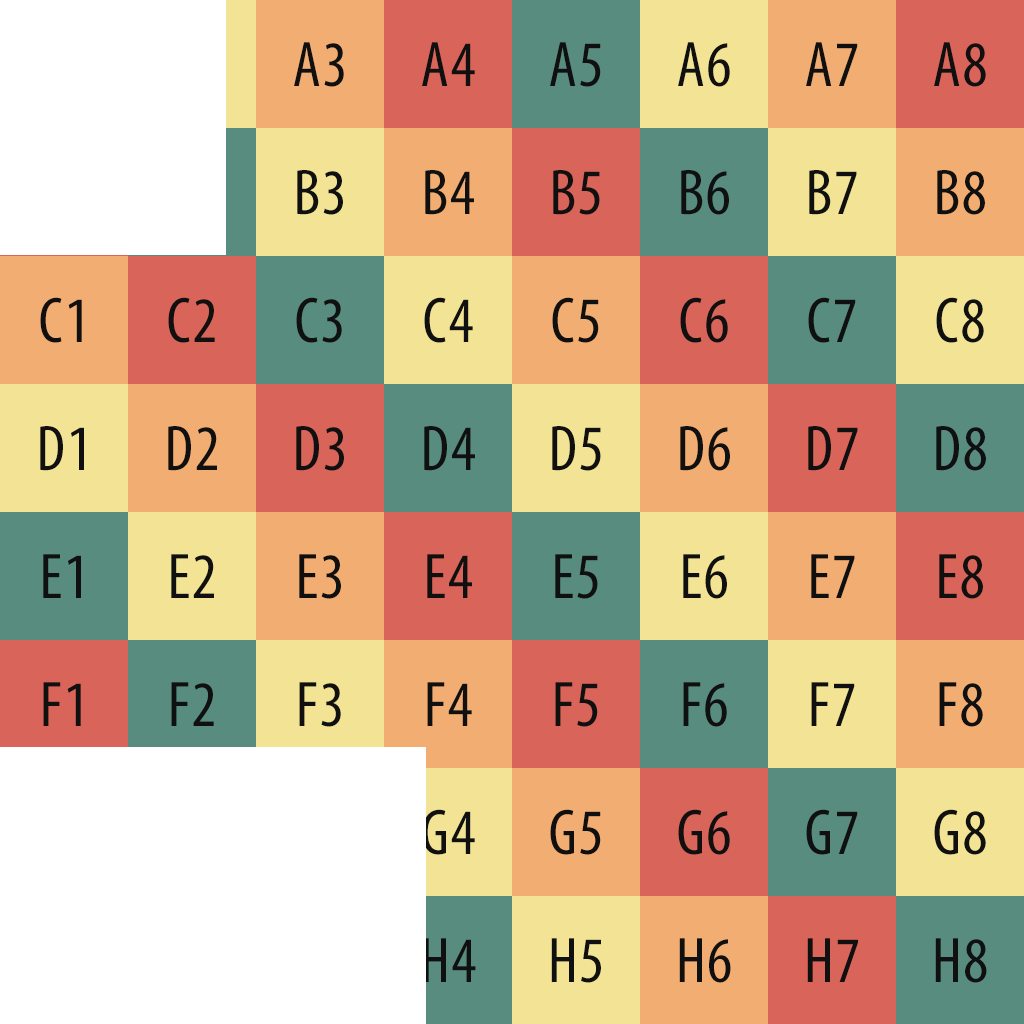
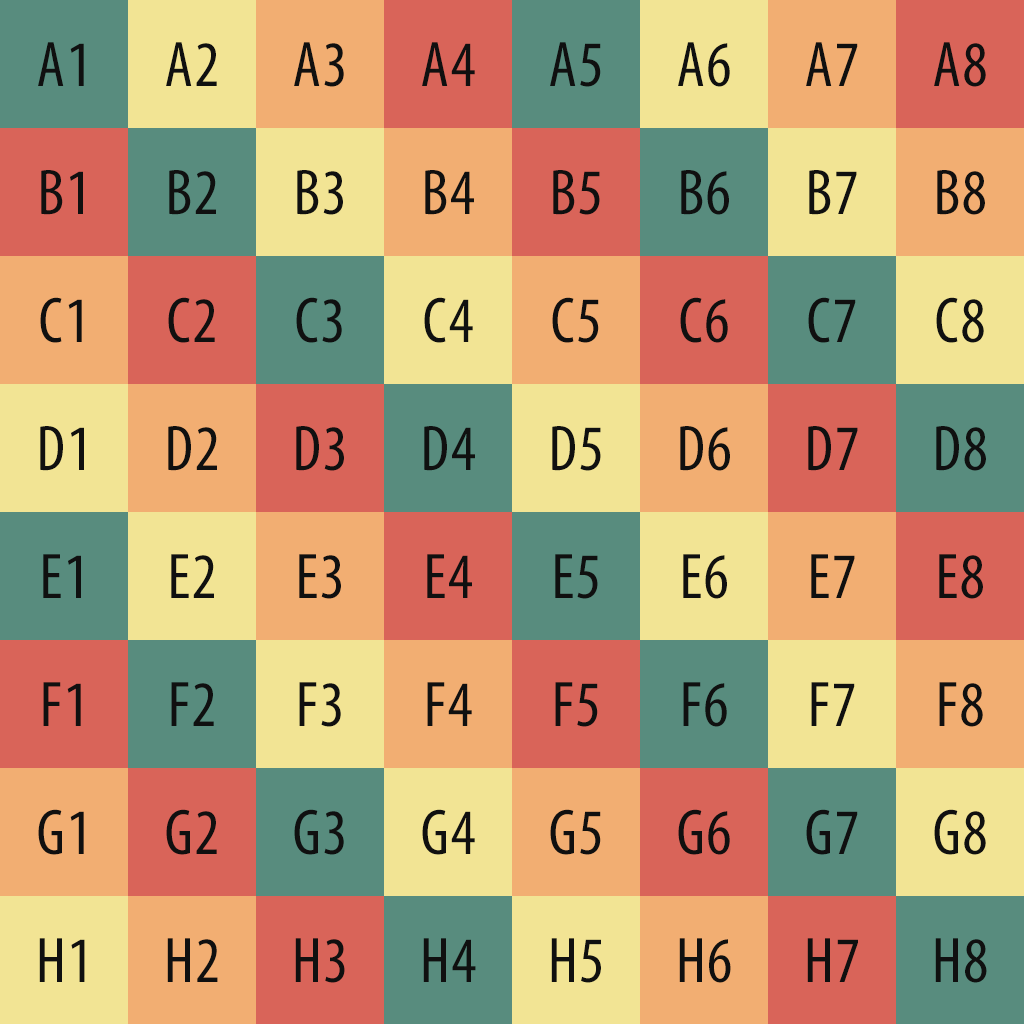
Get ground textures working, but not yet abstracted to the shape class.

Changed region(s): [[0.0, 0.7188, 0.4375, 1.0], [0.0, 0.0, 0.2188, 0.25]]

diff --git a/src/glwidget.cpp b/src/glwidget.cpp
@@ -70,12 +70,87 @@ void GLWidget::initializeGL()
     glEnable(GL_DEPTH_TEST);
     glEnable(GL_CULL_FACE);
     glCullFace(GL_BACK);
-   // glShadeModel(GL_SMOOTH);
+//    glShadeModel(GL_SMOOTH);
 
 
     // Initialize shaders
     m_defaultShader = new Shader(":resources/shaders/shader.vert",      ":resources/shaders/shader.frag");
     m_pointShader   = new Shader(":resources/shaders/anchorPoint.vert", ":resources/shaders/anchorPoint.geom", ":resources/shaders/anchorPoint.frag");
+//    m_texture_shader = new Shader(":/resources/shaders/texture.vert", ":/resources/shaders/texture.frag");
+
+    // INITIALIZE TEXTURE STUFF
+
+    // Prepare filepath
+    QString kitten_filepath = QString(":/resources/images/kitten.png");
+
+    // TASK 1: Obtain image from filepath
+    m_image = QImage(kitten_filepath);
+
+    // TASK 2: Format image to fit OpenGL
+    m_image = m_image.convertToFormat(QImage::Format_RGBA8888).mirrored();
+
+    auto bits = m_image.bits();
+
+    // TASK 3: Generate kitten texture
+    glGenTextures(1, &m_kitten_texture);
+
+    // TASK 9: Set the active texture slot to texture slot 0
+    glActiveTexture(GL_TEXTURE0);
+
+    // TASK 4: Bind kitten texture
+    glBindTexture(GL_TEXTURE_2D, m_kitten_texture);
+
+    // TASK 5: Load image into kitten texture
+    glTexImage2D(GL_TEXTURE_2D, 0, GL_RGBA, m_image.width(), m_image.height(), 0, GL_RGBA, GL_UNSIGNED_BYTE, m_image.bits());
+
+    // TASK 6: Set min and mag filters' interpolation mode to linear
+    glTexParameteri(GL_TEXTURE_2D, GL_TEXTURE_MIN_FILTER, GL_LINEAR);
+    glTexParameteri(GL_TEXTURE_2D, GL_TEXTURE_MAG_FILTER, GL_LINEAR);
+
+    // TASK 7: Unbind kitten texture
+    glBindTexture(GL_TEXTURE_2D, 0);
+
+//    // TASK 10: set the texture.frag uniform for our texture
+//    glUseProgram(m_texture_shader->id());
+//    glUniform1i(glGetUniformLocation(m_texture_shader->id(), "sampler"), 0);
+//    glUseProgram(0);
+
+    glUseProgram(m_defaultShader->id());
+    glUniform1i(glGetUniformLocation(m_defaultShader->id(), "sampler"), 0);
+    glUseProgram(0);
+
+//    // TASK 11: Fix this "fullscreen" quad's vertex data
+//    // TASK 12: Play around with different values!
+//    // TASK 13: Add UV coordinates
+//    std::vector<GLfloat> fullscreen_quad_data =
+//    { //     POSITIONS    //    UVs    //
+//        -1.0f,  1.0f, 0.0f, 0.0f, 1.0f,
+//        -1.0f, -1.0f, 0.0f, 0.0f, 0.0f,
+//         1.0f, -1.0f, 0.0f, 1.0f, 0.0f,
+//         1.0f,  1.0f, 0.0f, 1.0f, 1.0f,
+//        -1.0f,  1.0f, 0.0f, 0.0f, 1.0f,
+//         1.0f, -1.0f, 0.0f, 1.0f, 0.0f
+//    };
+
+//    // Generate and bind a VBO and a VAO for a fullscreen quad
+//    glGenBuffers(1, &m_fullscreen_vbo);
+//    glBindBuffer(GL_ARRAY_BUFFER, m_fullscreen_vbo);
+//    glBufferData(GL_ARRAY_BUFFER, fullscreen_quad_data.size()*sizeof(GLfloat), fullscreen_quad_data.data(), GL_STATIC_DRAW);
+//    glGenVertexArrays(1, &m_fullscreen_vao);
+//    glBindVertexArray(m_fullscreen_vao);
+
+//    // TASK 14: modify the code below to add a second attribute to the vertex attribute array
+//    glEnableVertexAttribArray(0);
+//    glEnableVertexAttribArray(1);
+//    glVertexAttribPointer(0, 3, GL_FLOAT, GL_FALSE, 5 * sizeof(GLfloat), nullptr);
+//    glVertexAttribPointer(1, 2, GL_FLOAT, GL_FALSE, 5 * sizeof(GLfloat), reinterpret_cast<void *>(3 * sizeof(GLfloat)));
+
+//    // Unbind the fullscreen quad's VBO and VAO
+//    glBindBuffer(GL_ARRAY_BUFFER, 0);
+//    glBindVertexArray(0);
+
+    // END INITIALIZE TEXTURE STUFF
+
 
     // Initialize ARAP, and get parameters needed to decide the camera position, etc
     Vector3f coeffMin, coeffMax;
@@ -111,11 +186,30 @@ void GLWidget::initializeGL()
     m_arap.initGroundPlane(":resources/images/kitty.png", 2, m_defaultShader);
 }
 
+//void GLWidget::paintTexture(GLuint texture, bool filtered){
+////    glUseProgram(m_texture_shader->id());
+//    m_texture_shader->bind();
+//    // TASK 32: Set your bool uniform on whether or not to filter the texture drawn
+////    glUniform1i(glGetUniformLocation(m_texture_shader->id(), "filtered"), filtered);
+//    m_texture_shader->setUniform("filtered", filtered);
+//    // TASK 10: Bind "texture" to slot 0
+//    glActiveTexture(GL_TEXTURE0);
+//    glBindTexture(GL_TEXTURE_2D, texture);
+//    glBindVertexArray(m_fullscreen_vao);
+////    std::cout << texture << std::endl;
+//    glDrawArrays(GL_TRIANGLES, 0, 6);
+//    glBindTexture(GL_TEXTURE_2D, 0);
+//    glBindVertexArray(0);
+//    glUseProgram(0);
+//    m_texture_shader->unbind();
+//}
+
 void GLWidget::paintGL()
 {
-    glClear(GL_COLOR_BUFFER_BIT | GL_DEPTH_BUFFER_BIT);
-    glBlendFunc(GL_SRC_ALPHA, GL_ONE_MINUS_SRC_ALPHA);
-    glEnable( GL_BLEND );
+//    paintTexture(m_kitten_texture, false);
+//    glClear(GL_COLOR_BUFFER_BIT | GL_DEPTH_BUFFER_BIT);
+//    glBlendFunc(GL_SRC_ALPHA, GL_ONE_MINUS_SRC_ALPHA);
+//    glEnable( GL_BLEND );
 
     m_defaultShader->bind();
     m_defaultShader->setUniform("proj", m_camera.getProjection());
@@ -124,7 +218,9 @@ void GLWidget::paintGL()
     m_defaultShader->setUniform("inverseView", inverseView);
     m_defaultShader->setUniform("widthBounds", m_arap.minCorner[0], m_arap.maxCorner[0]);
     m_defaultShader->setUniform("lengthBounds", m_arap.minCorner[2], m_arap.maxCorner[2]);
-//    m_defaultShader->setUniform("");
+
+    glActiveTexture(GL_TEXTURE0);
+    glBindTexture(GL_TEXTURE_2D, m_kitten_texture);
     m_arap.draw(m_defaultShader, GL_TRIANGLES);
     m_defaultShader->unbind();
 
@@ -132,14 +228,14 @@ void GLWidget::paintGL()
 
     glClear(GL_DEPTH_BUFFER_BIT);
 
-//    m_pointShader->bind();
-//    m_pointShader->setUniform("proj",   m_camera.getProjection());
-//    m_pointShader->setUniform("view",   m_camera.getView());
-//    m_pointShader->setUniform("vSize",  m_vSize);
-//    m_pointShader->setUniform("width",  width());
-//    m_pointShader->setUniform("height", height());
-//    m_arap.draw(m_pointShader, GL_POINTS);
-//    m_pointShader->unbind();
+////    m_pointShader->bind();
+////    m_pointShader->setUniform("proj",   m_camera.getProjection());
+////    m_pointShader->setUniform("view",   m_camera.getView());
+////    m_pointShader->setUniform("vSize",  m_vSize);
+////    m_pointShader->setUniform("width",  width());
+////    m_pointShader->setUniform("height", height());
+////    m_arap.draw(m_pointShader, GL_POINTS);
+////    m_pointShader->unbind();
 }
 
 void GLWidget::resizeGL(int w, int h)

diff --git a/src/graphics/shape.cpp b/src/graphics/shape.cpp
@@ -127,12 +127,12 @@ void Shape::draw(Shader *shader, GLenum mode)
         shader->setUniform("blue",  m_blue);
         shader->setUniform("alpha", m_alpha);
         glBindVertexArray(m_surfaceVao);
-        glActiveTexture(GL_TEXTURE0);
-        glBindTexture(GL_TEXTURE_2D, ocean_floor_texture);
-        shader->setUniform("sampler", 1);
+//        glActiveTexture(GL_TEXTURE0);
+//        glBindTexture(GL_TEXTURE_2D, ocean_floor_texture);
+//        shader->setUniform("sampler", 0);
         glDrawElements(mode, m_numSurfaceVertices, GL_UNSIGNED_INT, reinterpret_cast<GLvoid *>(0));
         glBindVertexArray(0);
-        glBindTexture(GL_TEXTURE_2D, 0);
+//        glBindTexture(GL_TEXTURE_2D, 0);
         break;
     }
     case GL_POINTS:

diff --git a/src/glwidget.h b/src/glwidget.h
@@ -29,6 +29,7 @@ private:
     // Basic OpenGL Overrides
     void initializeGL()         override;
     void paintGL()              override;
+    void paintTexture(GLuint texture, bool filtered);
     void resizeGL(int w, int h) override;
 
     // Event Listeners
@@ -48,6 +49,12 @@ private:
     Camera  m_camera;
     Shader *m_defaultShader;
     Shader *m_pointShader;
+    Shader *m_texture_shader;
+
+    GLuint m_fullscreen_vbo;
+    GLuint m_fullscreen_vao;
+    QImage m_image;
+    GLuint m_kitten_texture;
 
     float m_movementScaling;
     float m_vertexSelectionThreshold;
